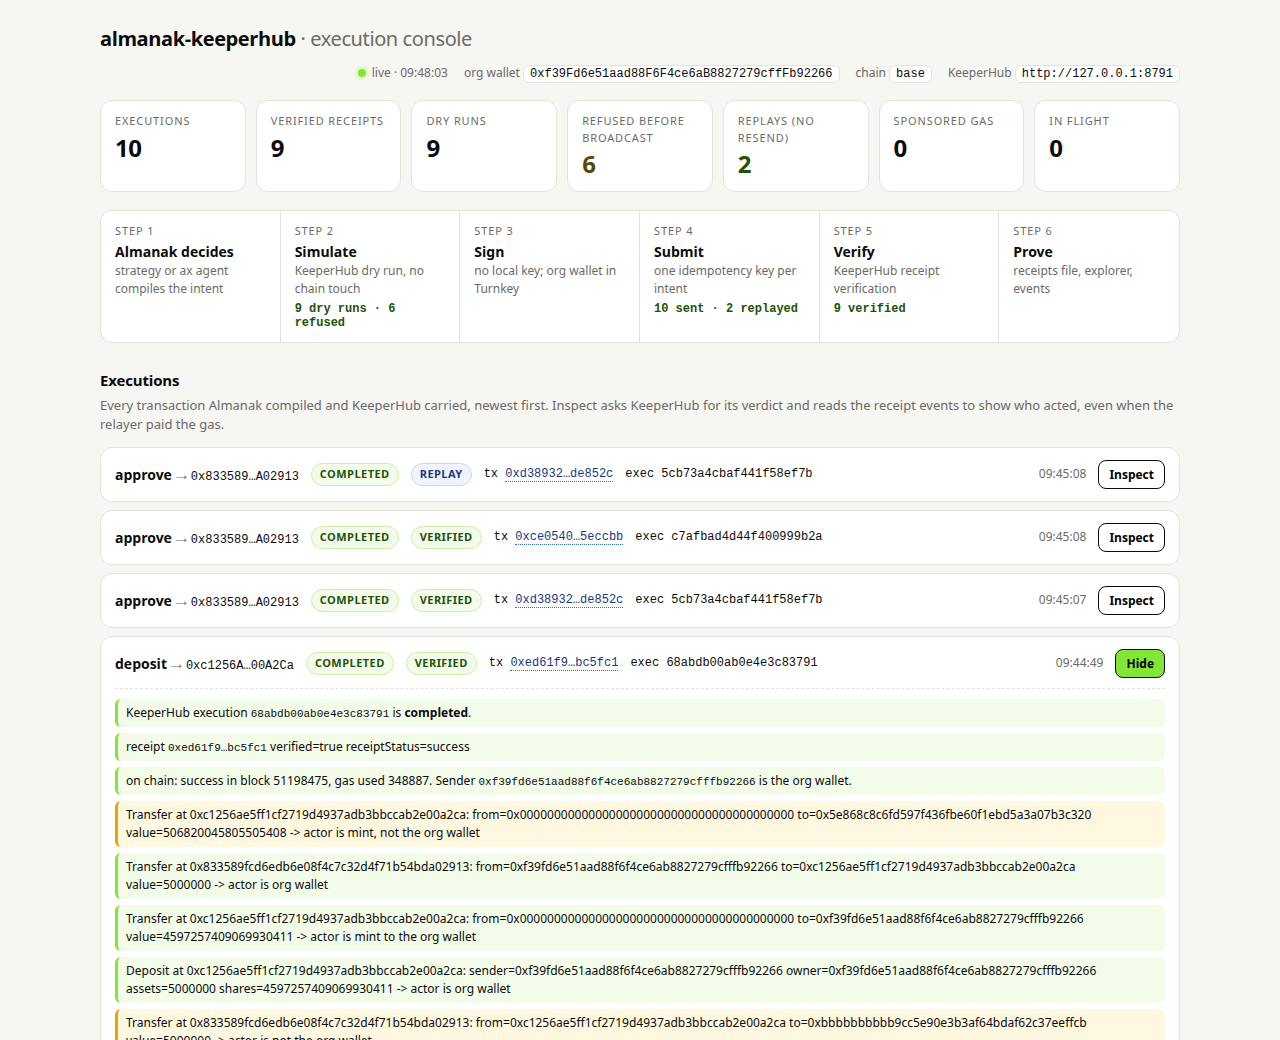
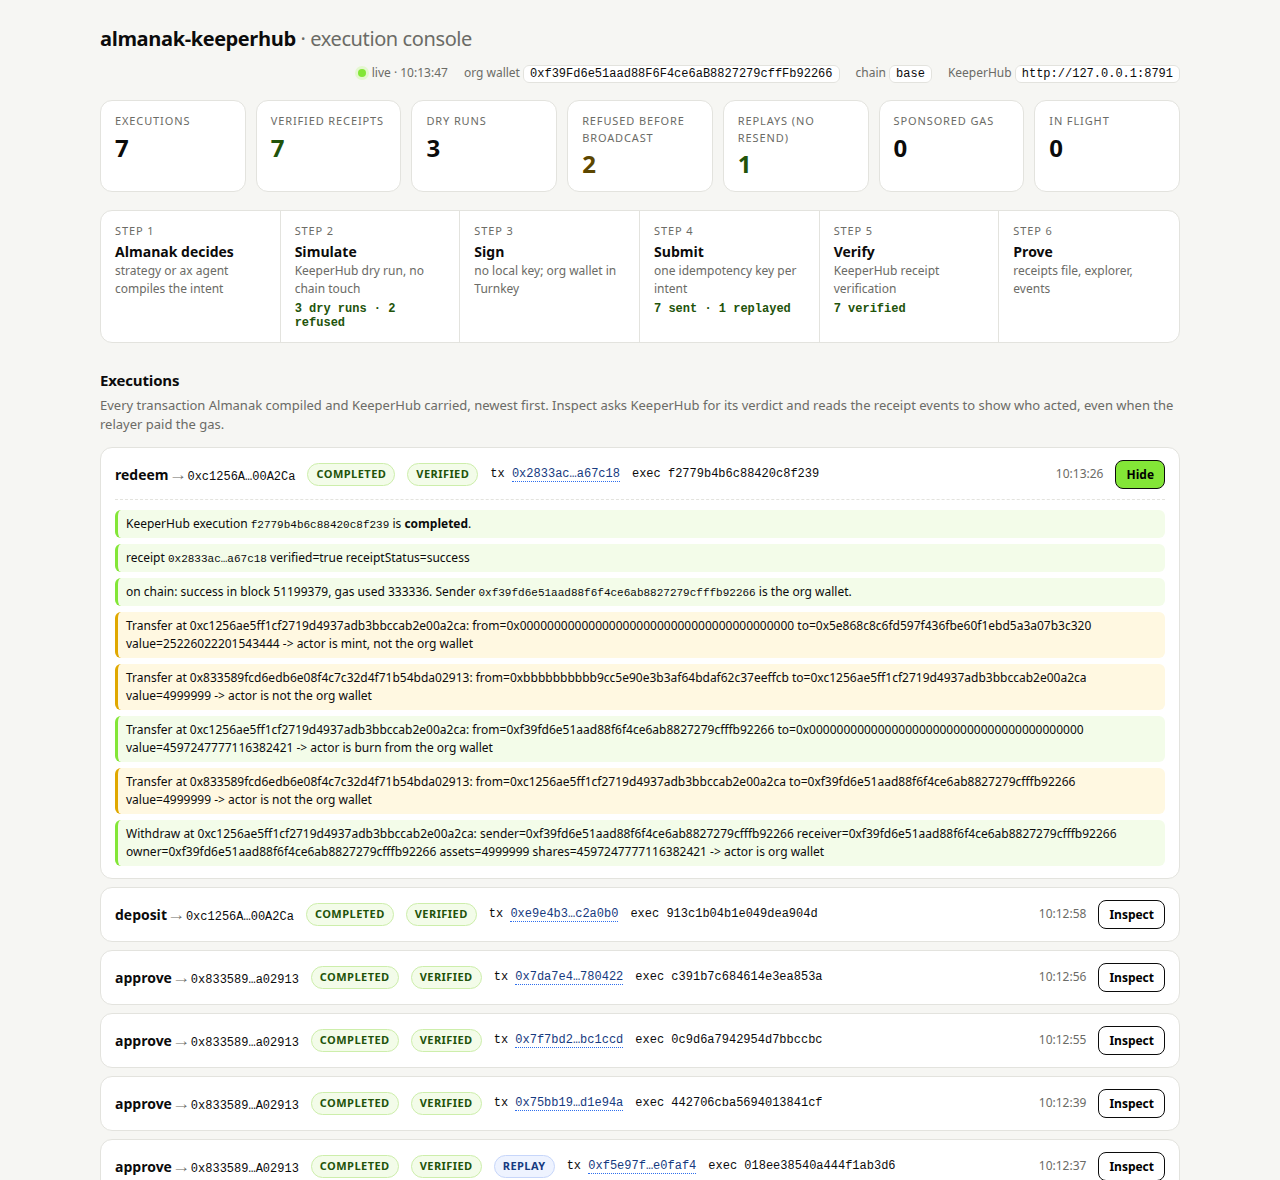
Console screenshots with the lifecycle and keeper panel; scorecard update

diff --git a/docs/submission/scorecard.md b/docs/submission/scorecard.md
@@ -7,7 +7,7 @@ of ETHGlobal OpenAgents (May 2026) did on the same criterion.
 
 | Criterion | This build | Evidence | What winners did | Adopted |
 |---|---|---|---|---|
-| Integration depth | 9 | KeeperHub sits inside Almanak's own execution interfaces (`Signer`, `Submitter`, `Simulator`) and gateway plugin points; unmodified strategies and Almanak's agent CLI (`ax`) both execute through it | n8n (3rd) shipped a node inside a live product with users and got it verified by n8n; three public Almanak entries integrate one level up (intent translators) | Same shape as n8n: inside the partner's own extension mechanism, not beside it |
+| Integration depth | 9 | KeeperHub sits inside Almanak's own execution interfaces (`Signer`, `Submitter`, `Simulator`) and gateway plugin points; unmodified strategies, the full deposit-to-redeem lifecycle, and Almanak's agent CLI (`ax`) all execute through it; a KeeperHub-scheduled keeper generated from the strategy config runs alongside | n8n (3rd) shipped a node inside a live product with users and got it verified by n8n; three public Almanak entries integrate one level up (intent translators) | Same shape as n8n: inside the partner's own extension mechanism, not beside it |
 | Execution through KeeperHub | 8 before the hosted run, 9 after | Every write is `POST /api/execute/contract-call` with simulate then `Idempotency-Key`; receipts verified by KeeperHub; every execution recorded with id, hash, link | Meld (1st): "400 on-chain executions, 1,092 transactions", all hashes in `docs/receipts.json`; ChronicleAI (2nd): "3,000+ verified transactions" | `keeperhub-receipts.json` written automatically per run, `scripts/benchmark.py` produces counts and hashes at volume |
 | Reliability and observability | 9 | Five deliberate failure modes; same-key retries on transport and 5xx; resilient polling; bundle truncation visible; KeeperHub verdict outranks the chain receipt; independent review with eight findings fixed | n8n: "11/11 affordable transfers landed, 20/20 impossible transfers refused before submission, p50 19.2s"; Interlock (6th) found a double-broadcast bug that got a same-day fix | Benchmark table with refused/landed counts and p50/p95 latency; two Almanak bugs found with stack traces |
 | Usefulness and originality | 8 | Almanak's own repo documents the duplicate-mint incident this prevents; Almanak's private-relay submitter is a stub; nobody else touches the execution layer or the agent CLI | Winners solved a pain of the partner's users rather than a generic wrapper | Incident quoted from Almanak's source; `ax` mode ties the theme (agent decides, KeeperHub executes) to a live product's own agent |
@@ -23,4 +23,4 @@ Where the previous winners were stronger than this build, still:
 
 - Proof at volume: until the hosted run happens, this repo has fork receipts only. The first mainnet run and `scripts/benchmark.py --executions 5` close that gap.
 - A merged upstream PR: the bounty PR is ready but gated on KeeperHub accepting the issue. File it on day 1.
-- Surfaces breadth: REST direct execution and the audit trail only. That is a deliberate choice, stated as such.
+- Surfaces breadth: REST direct execution, agent-authored workflows (the keeper), and the audit trail. No x402 or MPP, deliberately, stated as such.
